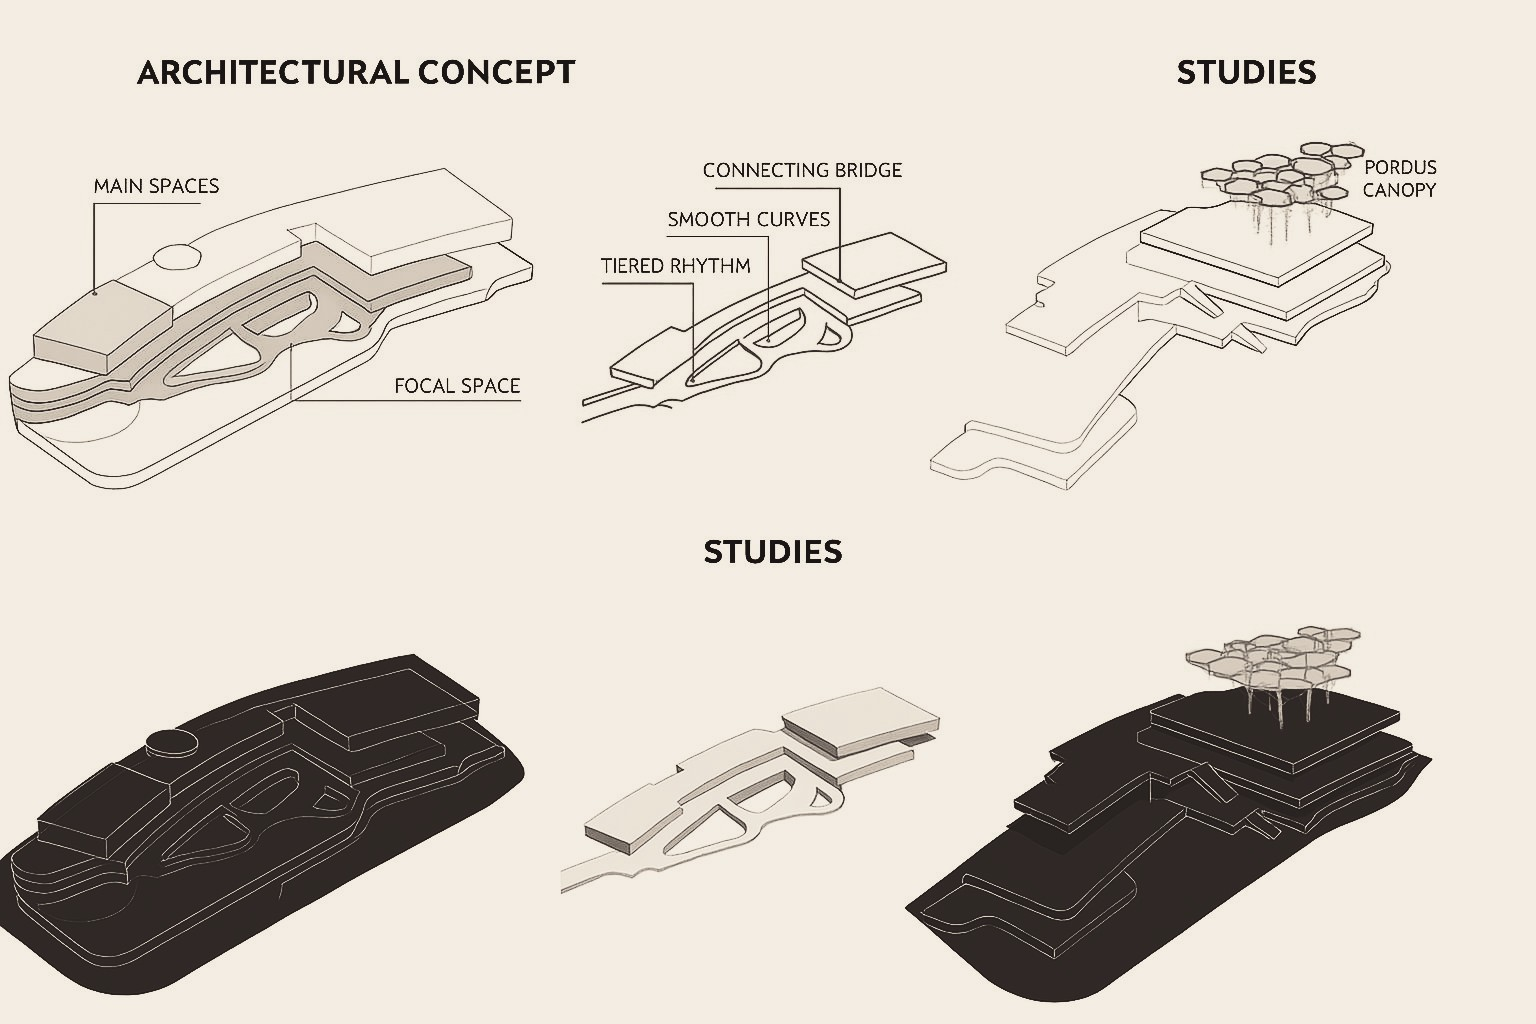
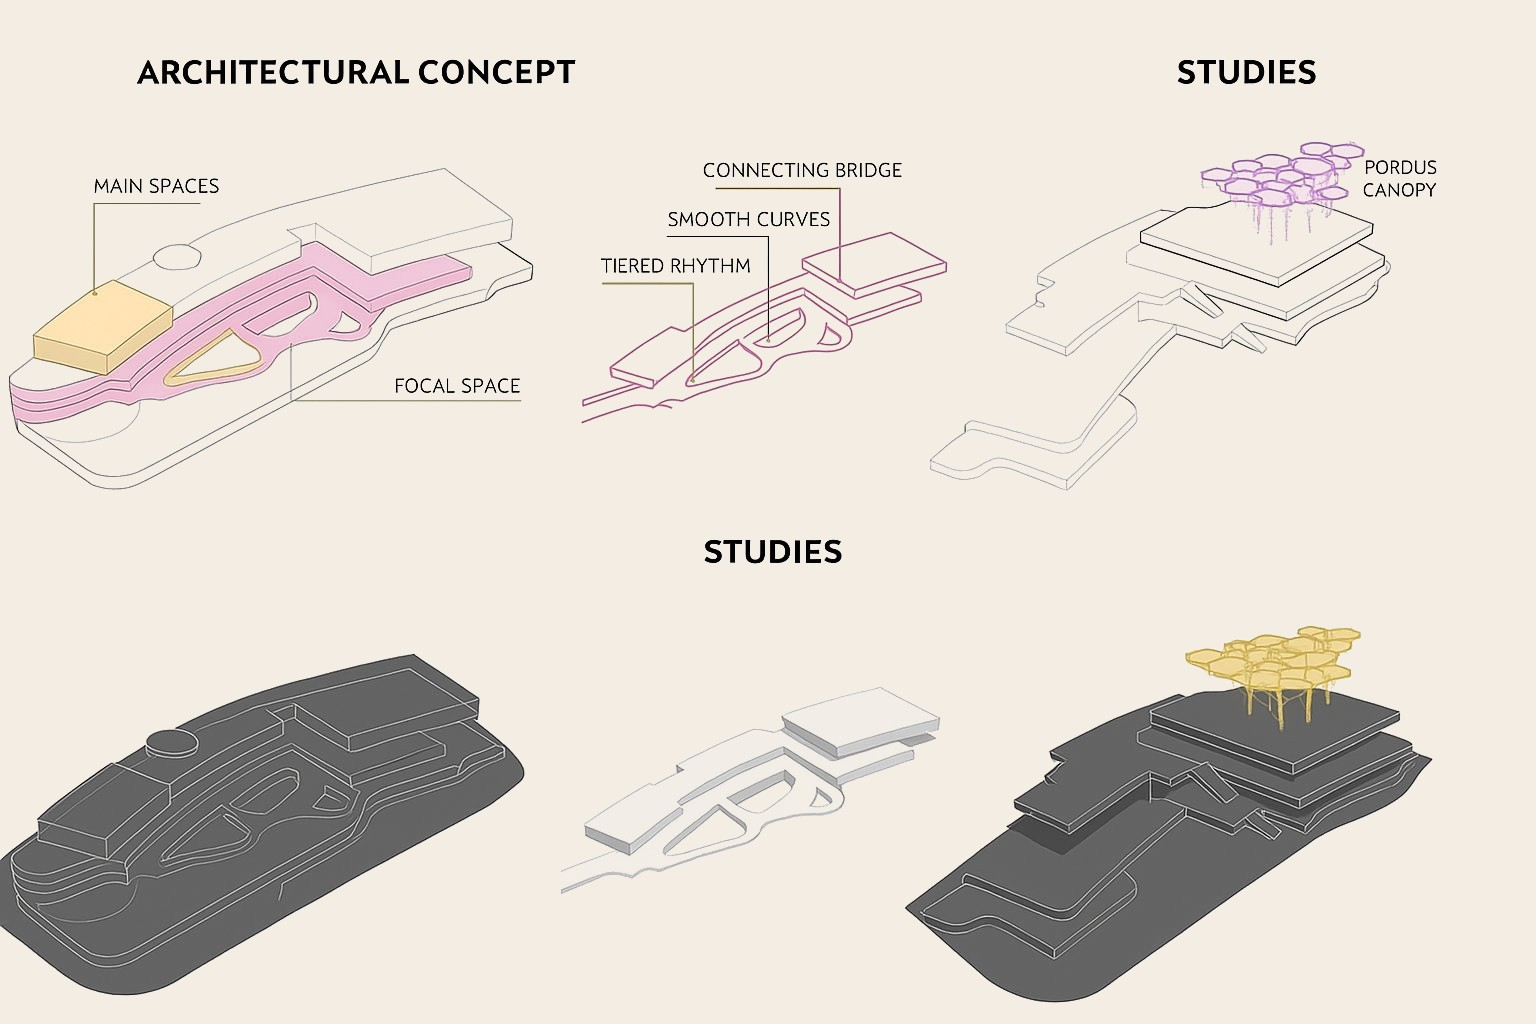
Client wall in each client's brand colours, scope shows only work done, brighter BIM model views, close-up section removed
Claude-Session: https://claude.ai/code/session_01Tu9eKeBXcwf9KwySF5edhz

diff --git a/docs/HANDOVER.md b/docs/HANDOVER.md
@@ -93,7 +93,8 @@ No gold anywhere.
 
 - **Renders:** one grade on the site — `sepia(.14) saturate(.86) contrast(1.05) brightness(1.01)`: warm sand highlights, slightly matte blacks, quieter greens/blues.
 - **Drawings, plans, elevations, BIM captures, diagrams (✅ 3 Nov):** recoloured *in the files* to the brand palette — gradient map: near-black ink `#1A1615` linework → warm graphite → sand fills → bone `#F3EDE3` background (no white). Shown at natural proportions on a bone sheet with soft shadow against the night section, oxblood hairline + sheet number (A-001…). New drawings must get the same gradient map before upload (script in the 3 Nov commit / ask Claude).
-- **Project page extras (✅ 3 Nov):** cover render repeated uncropped at the top of Visuals; a **Details** section of artistic close-up crops (D-01…D-05, zoom ×1.7–3.2) in an off-grid layout.
+- **Shaded BIM/3D model views:** soft ink→bone duotone with lifted shadows (not the line-drawing map). **Presentation boards with renders** (Fifth Square, Linah concept, Ogami, Travco boards): full colour, only white paper swapped to bone.
+- **Project page extras (✅ 3 Nov):** cover render repeated uncropped at the top of Visuals. Auto close-up Details section ❌ removed — Aya will hand-pick close-ups (see TO DO).
 - **For future renders (guidance):** one signature light hour (warm late-afternoon "Cairo 5 pm"), camera height ~1.2 m, 35 mm interiors, verticals always corrected, consistent entourage (neutral, slightly blurred people; one plant family), fine grain at fixed strength, crops 4:5 and 21:9 only.
 - **Exclusions:** STC and SABIC folders contain photos of the real towers — never on the site.
 - **Juba renders look dated (⏸):** fix without re-rendering — AI upscale at low creativity (Magnific / Krea Enhance / Topaz), Photoshop sky + foliage + people replacement, then house grade. 21 more 2021 Juba renders exist in `G:\Portfolio\pot\Juba Render`.
@@ -128,7 +129,7 @@ No gold anywhere.
 | About/timeline | `src/pages/about.astro` |
 
 ### 4.3 Site structure (✅ DECIDED)
-- **Home:** intro → hero → intro statement → numbers → selected work → typology marquee → **client wall** → services → contact. Client wall (✅ 3 Nov, reverses the earlier 'no client names on homepage' rule): two counter-scrolling rows of 16 client marks, each linking to its project; typographic marks in Archivo until real logos are dropped in `public/clients/<id>.svg` (auto-tinted ink). Confidential and private clients excluded.
+- **Home:** intro → hero → intro statement → numbers → selected work → typology marquee → **client wall** → services → contact. Client wall (✅ 3 Nov, reverses the earlier 'no client names on homepage' rule): two counter-scrolling rows of 16 client marks in each client's brand colour (hover fills the tile with it), each linking to its project; typographic marks in Archivo until real logos are dropped in `public/clients/<id>.svg` (auto-tinted ink). Confidential and private clients excluded.
 - **Work:** opens on **three disciplines** — *Architectural design*, *Interior design*, *BIM & technical*. Choosing one shows its projects grouped by type (Residential, Workplace, Commercial…), numbered 01.01, 01.02…
 - **Project page:** title block with Location · Discipline · Practice · **Client** · **Year** · Scope (+ optional scope note) → renders → drawing sheets → client links.
 - **About:** timeline (section 1), bio, tools.
@@ -234,10 +235,11 @@ foreach ($f in $files.Keys) { Copy-Item -LiteralPath $f -Destination (Join-Path 
 - Minimal Villa: 2026, full scope.
 - Max 5 renders per project (best picks; first = cover). Drawings/plans not counted.
 - Hero: no stamp, no table lines.
-- Drawings recoloured to brand palette (ink lines, bone background); cover shown uncropped; Details close-up section; client wall on homepage; footer = AYA | HASSAN wordmark.
+- Drawings recoloured to brand palette (ink lines, bone background); BIM model shots light duotone; cover shown uncropped; client wall in client brand colours; footer = AYA | HASSAN wordmark.
+- Project Scope strip shows only the disciplines actually done (no greyed-out ones).
 
 ### ❓ NEEDS DECISION (Aya)
-0. **Client logos:** send SVG logos (or approve typographic marks as final). Also confirm STC, SABIC, NEOM (NDA projects) may appear by name on the homepage wall — they're shown now.
+0. **Client logos:** send SVG logos (or approve typographic marks as final). Brand colours applied from best knowledge — confirm/correct: SODIC #0E2B4C, Orascom #00467F, Misr Italia #B5893C, Al Marasem #7A5C3E, Guira #2F6B4F, Linah #3E8E41, Travco #00508F. Also confirm STC, SABIC, NEOM (NDA projects) may appear by name on the homepage wall — they're shown now.
 1. **Merge `rebrand-on-update` to `main` (go live)?** — after reviewing preview.
 2. **Which Vercel project to keep** (`aya`, `aya-hassan`, `ayahassan`) and delete the other two.
 3. **Video edits wanted:** web cuts (30–60 s) / Instagram reels / one showreel / logo & titles / compression only?
@@ -257,6 +259,7 @@ foreach ($f in $files.Keys) { Copy-Item -LiteralPath $f -Destination (Join-Path 
 - **Linah Farms re-render / upscale.**
 
 ### 🔧 TO DO (next actions, in order)
+0. Aya: hand-pick close-up/detail crops per project (auto Details section removed 3 Nov) — send picks, Claude builds the section.
 1. Aya: review preview → decide #1.
 2. Aya: run PowerShell to fill `_Videos`; keep PC awake or upload to Drive.
 3. Claude Code: compress Jotun animation → `public/video/jotun-office.mp4` + poster; enable in `films` in `projects.ts`.
@@ -280,6 +283,10 @@ foreach ($f in $files.Keys) { Copy-Item -LiteralPath $f -Destination (Join-Path 
 | 2026-11-02 | Remove Modern Villa, Apartment Bldg, Sketches, Jeddah Residence | Aya request |
 | 2026-11-02 | Client + year on all projects; Fifth Square canopy note | Aya request |
 | 2026-11-02 | Don't swap in larger originals | Site caps at 2400 px; no visible gain, slower |
+| 2026-11-03 | Remove auto close-up Details; Aya picks manually | Aya request |
+| 2026-11-03 | Scope shows done disciplines only | Aya request |
+| 2026-11-03 | Client wall in client brand colours | Aya request |
+| 2026-11-03 | BIM model shots: light duotone; colour boards kept in colour | Line-map made them very dark |
 | 2026-11-03 | Drawings recoloured to palette in the image files; bone background, ink lines | Aya: drawings must blend with brand |
 | 2026-11-03 | Client wall on homepage | Aya request (reopens typologies-only rule) |
 | 2026-11-03 | Cover repeated uncropped; Details close-up section | Aya request — avant-garde detail shots |
@@ -377,6 +384,7 @@ End of every session: produce the updated sections of the handover (Status board
 
 | Date | Who | Change |
 |---|---|---|
+| 2026-11-03 | Claude | Client brand colours on wall; Details section removed; scope = done only; 6 BIM shots re-toned light, 4 boards restored to colour. |
 | 2026-11-03 | Claude | Modern Residence wrong 5th image replaced; 40 drawings recoloured; cover uncropped + Details section; client wall; new footer wordmark. |
 | 2026-11-03 | Claude | Hero: stamp + table lines removed; 15 projects back to 5 renders (5th from previous set); new colour drawing-sheet style. |
 | 2026-11-03 | Claude (chat) | Curated every project to its best 4 renders (15 projects trimmed); drawings unchanged. |
